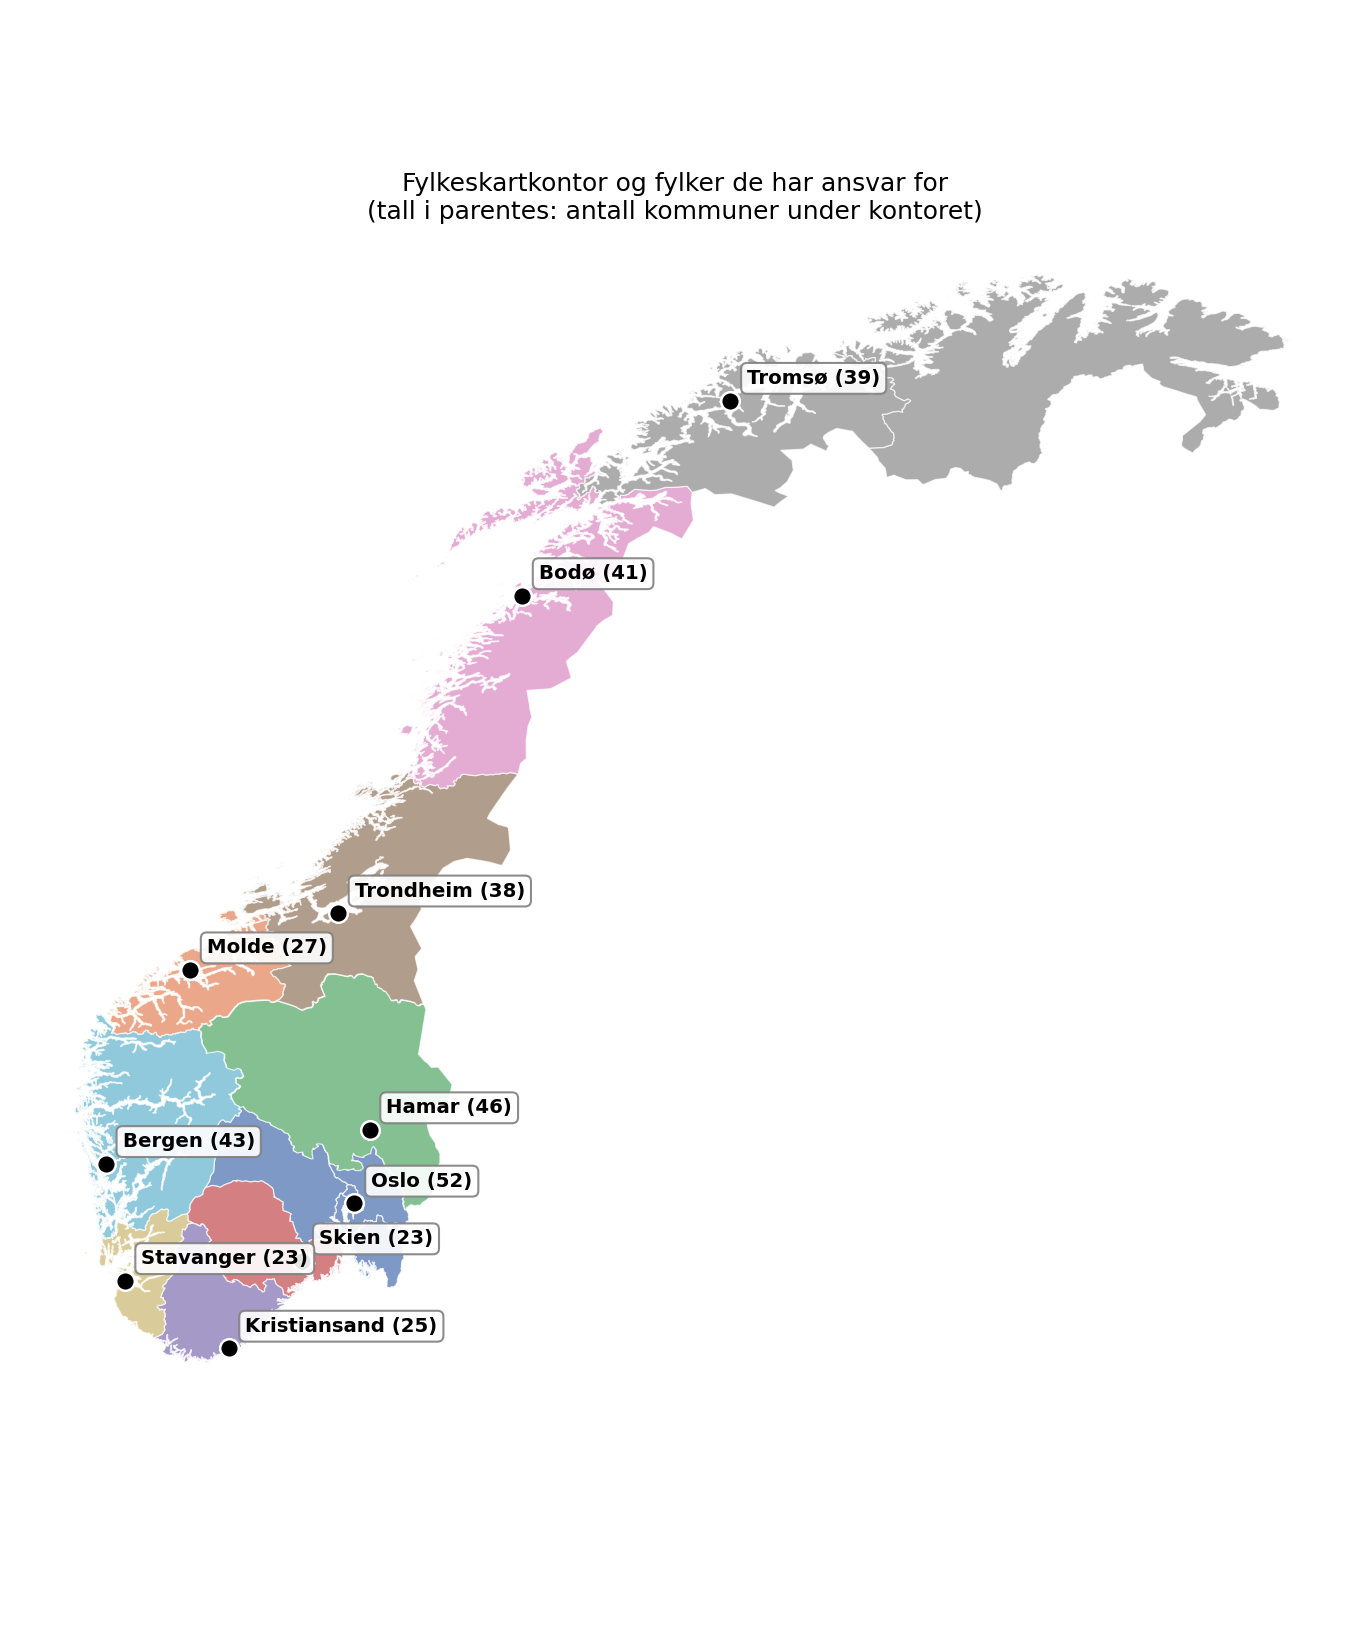
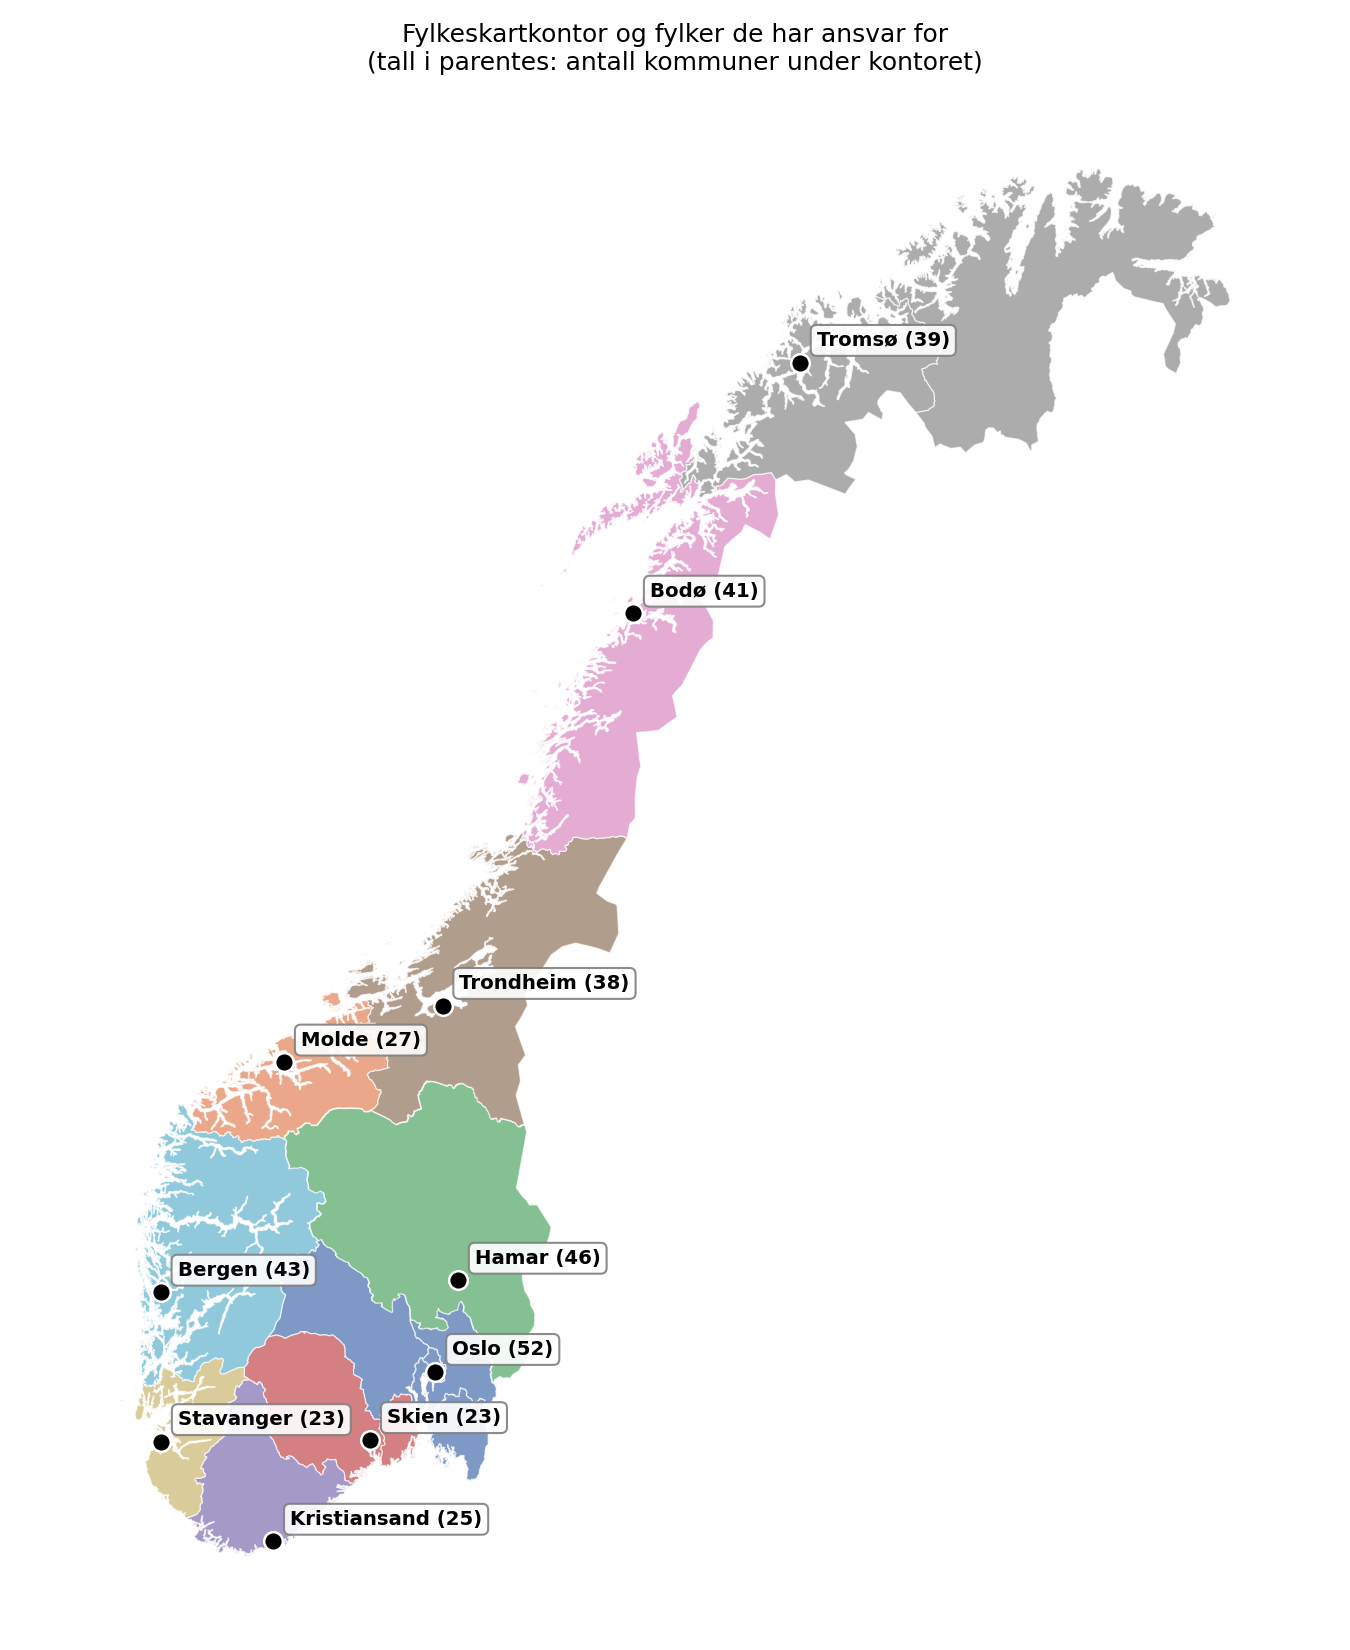
figur 1: reprojiser til UTM 33N for korrekt Norge-geometri
Geojson-fila er i EPSG:4326 (WGS84 lat/lon). Med konstant aspect=1.8
ble nord-Norge strukket ~60 % for bredt øst-vest fordi 1 grad lengde
blir kortere mot polen (cos-effekt). Reprojisering til EPSG:25833
(ETRS89 / UTM 33N, Kartverkets standard) + aspect='equal' gir geometrisk
korrekt fremstilling. Kontor-prikker reprojiseres tilsvarende fra lat/lon.

Changed region(s): [[0.0622, 0.0927, 0.9644, 0.9582], [0.28, 0.0, 0.7156, 0.0618]]

diff --git a/004 data/scripts/figurer.py b/004 data/scripts/figurer.py
@@ -83,6 +83,16 @@ def fig1_kart(kommuner):
     fylker = gpd.read_file(os.path.join(RAW_DIR, 'kartverket_fylker.geojson'))
     fylker['fylkesnummer'] = fylker['fylkesnummer'].astype(int)
     fylker['Kartkontor'] = fylker['fylkesnummer'].map(FYLKE_TIL_KONTOR)
+    fylker = fylker.to_crs(25833)  # ETRS89 / UTM 33N — Kartverkets standard
+
+    kontor_punkter = gpd.GeoDataFrame(
+        {'Kartkontor': list(KONTOR_COORDS.keys())},
+        geometry=gpd.points_from_xy(
+            [lon for lat, lon in KONTOR_COORDS.values()],
+            [lat for lat, lon in KONTOR_COORDS.values()],
+        ),
+        crs='EPSG:4326',
+    ).to_crs(25833)
 
     fig, ax = plt.subplots(figsize=(9, 11))
     for kontor in KONTOR_REKKEFOLGE:
@@ -92,21 +102,21 @@ def fig1_kart(kommuner):
         sub.plot(ax=ax, color=KONTOR_FARGER[kontor], edgecolor='white',
                  linewidth=0.6, alpha=0.72)
 
-    for kontor, (lat, lon) in KONTOR_COORDS.items():
+    for _, row in kontor_punkter.iterrows():
+        kontor = row['Kartkontor']
         n = antall.get(kontor, 0)
-        ax.scatter(lon, lat, s=80, c='black', edgecolors='white',
+        x, y = row.geometry.x, row.geometry.y
+        ax.scatter(x, y, s=80, c='black', edgecolors='white',
                    linewidth=1.2, zorder=4)
         ax.annotate(f'{kontor} ({n})',
-                    xy=(lon, lat), xytext=(8, 8),
+                    xy=(x, y), xytext=(8, 8),
                     textcoords='offset points',
                     fontsize=9.5, fontweight='bold',
                     bbox=dict(boxstyle='round,pad=0.3', facecolor='white',
                               edgecolor='gray', alpha=0.9),
                     zorder=5)
 
-    ax.set_xlim(3.5, 32)
-    ax.set_ylim(57.5, 71.5)
-    ax.set_aspect(1.8)
+    ax.set_aspect('equal')
     ax.set_title('Fylkeskartkontor og fylker de har ansvar for\n'
                  '(tall i parentes: antall kommuner under kontoret)',
                  fontsize=12, pad=14)
